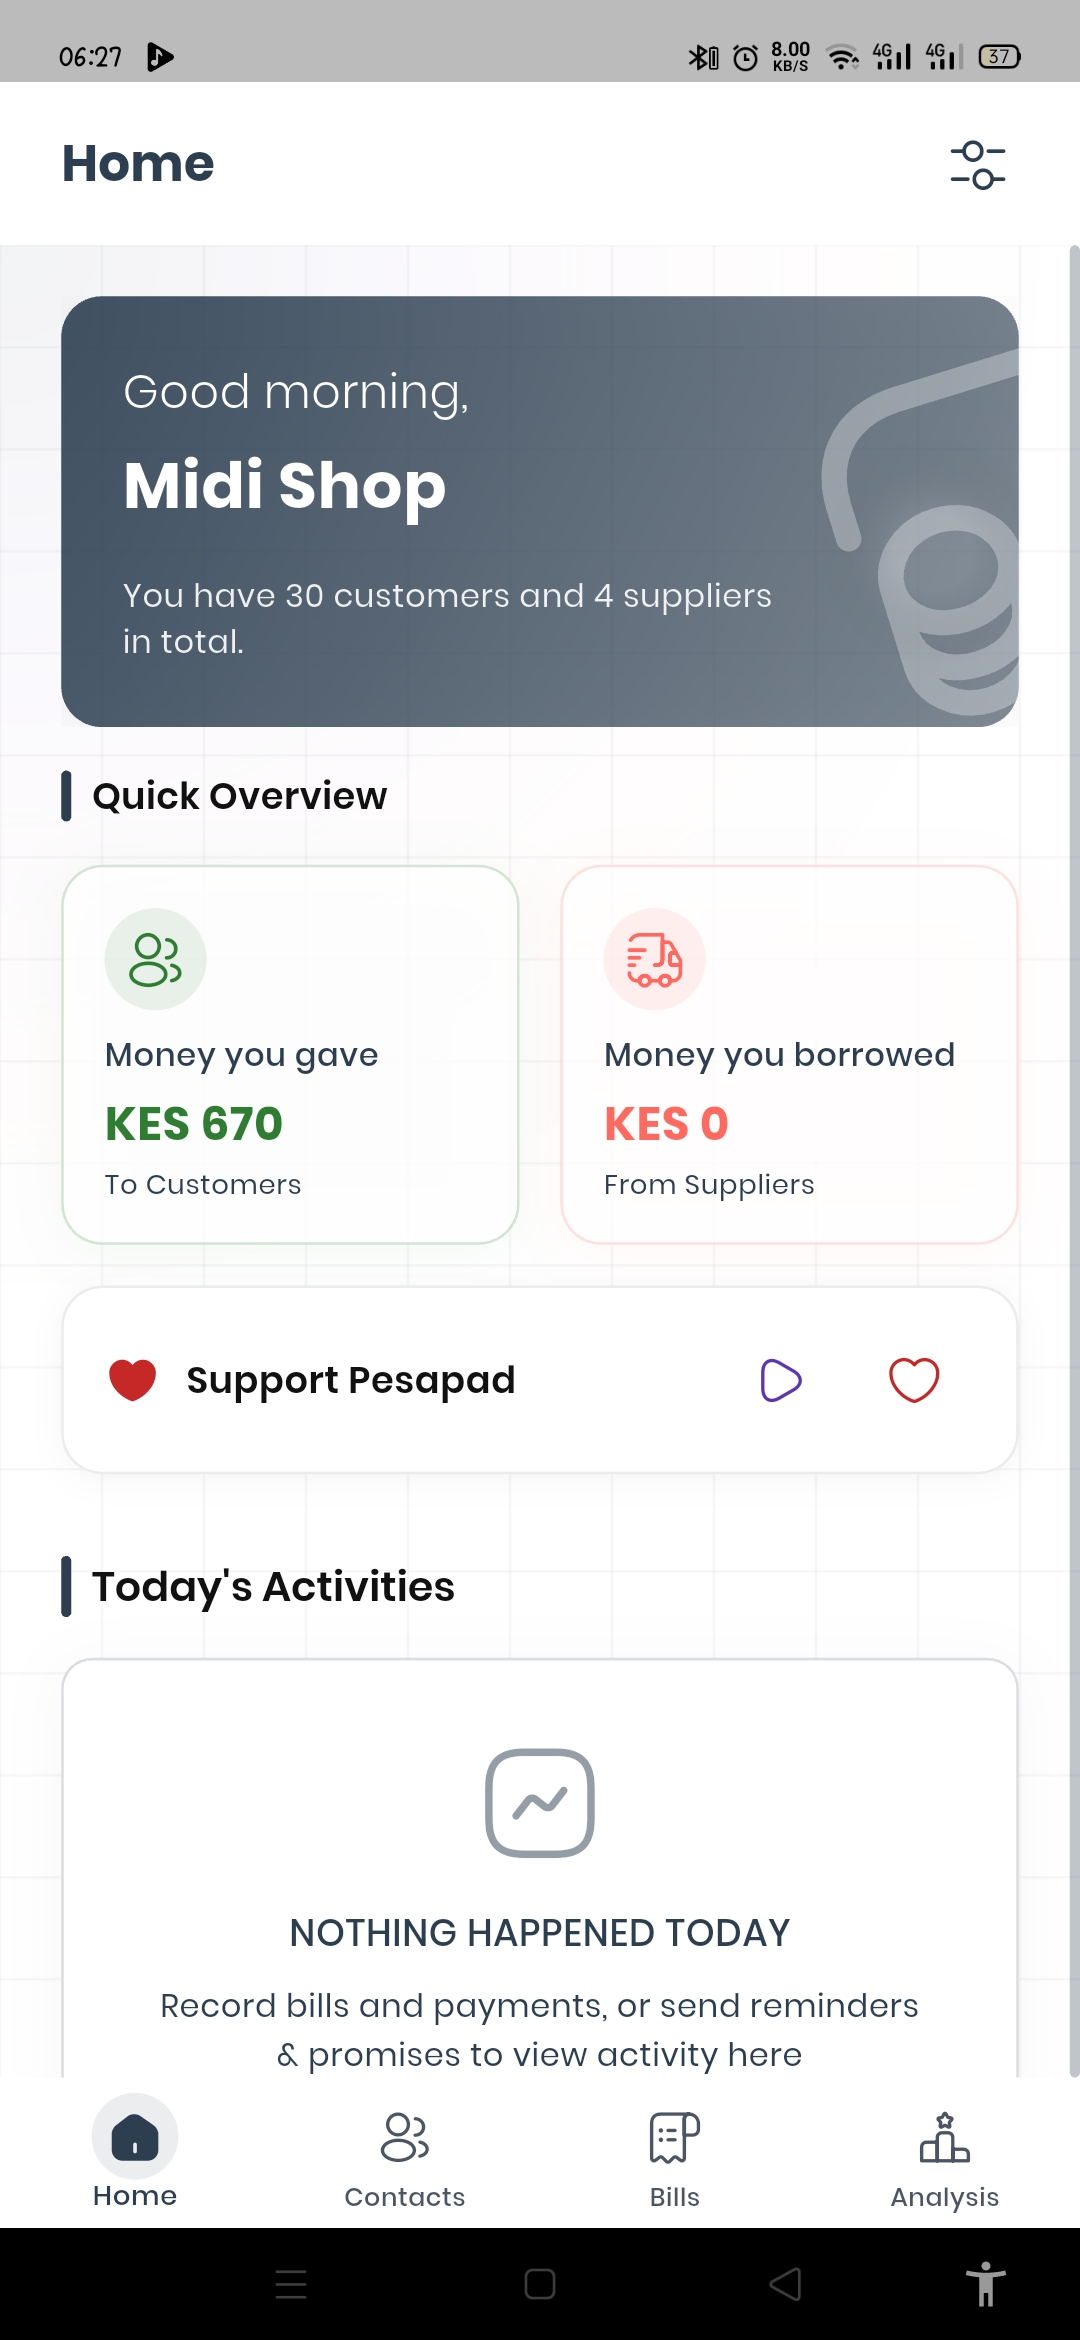
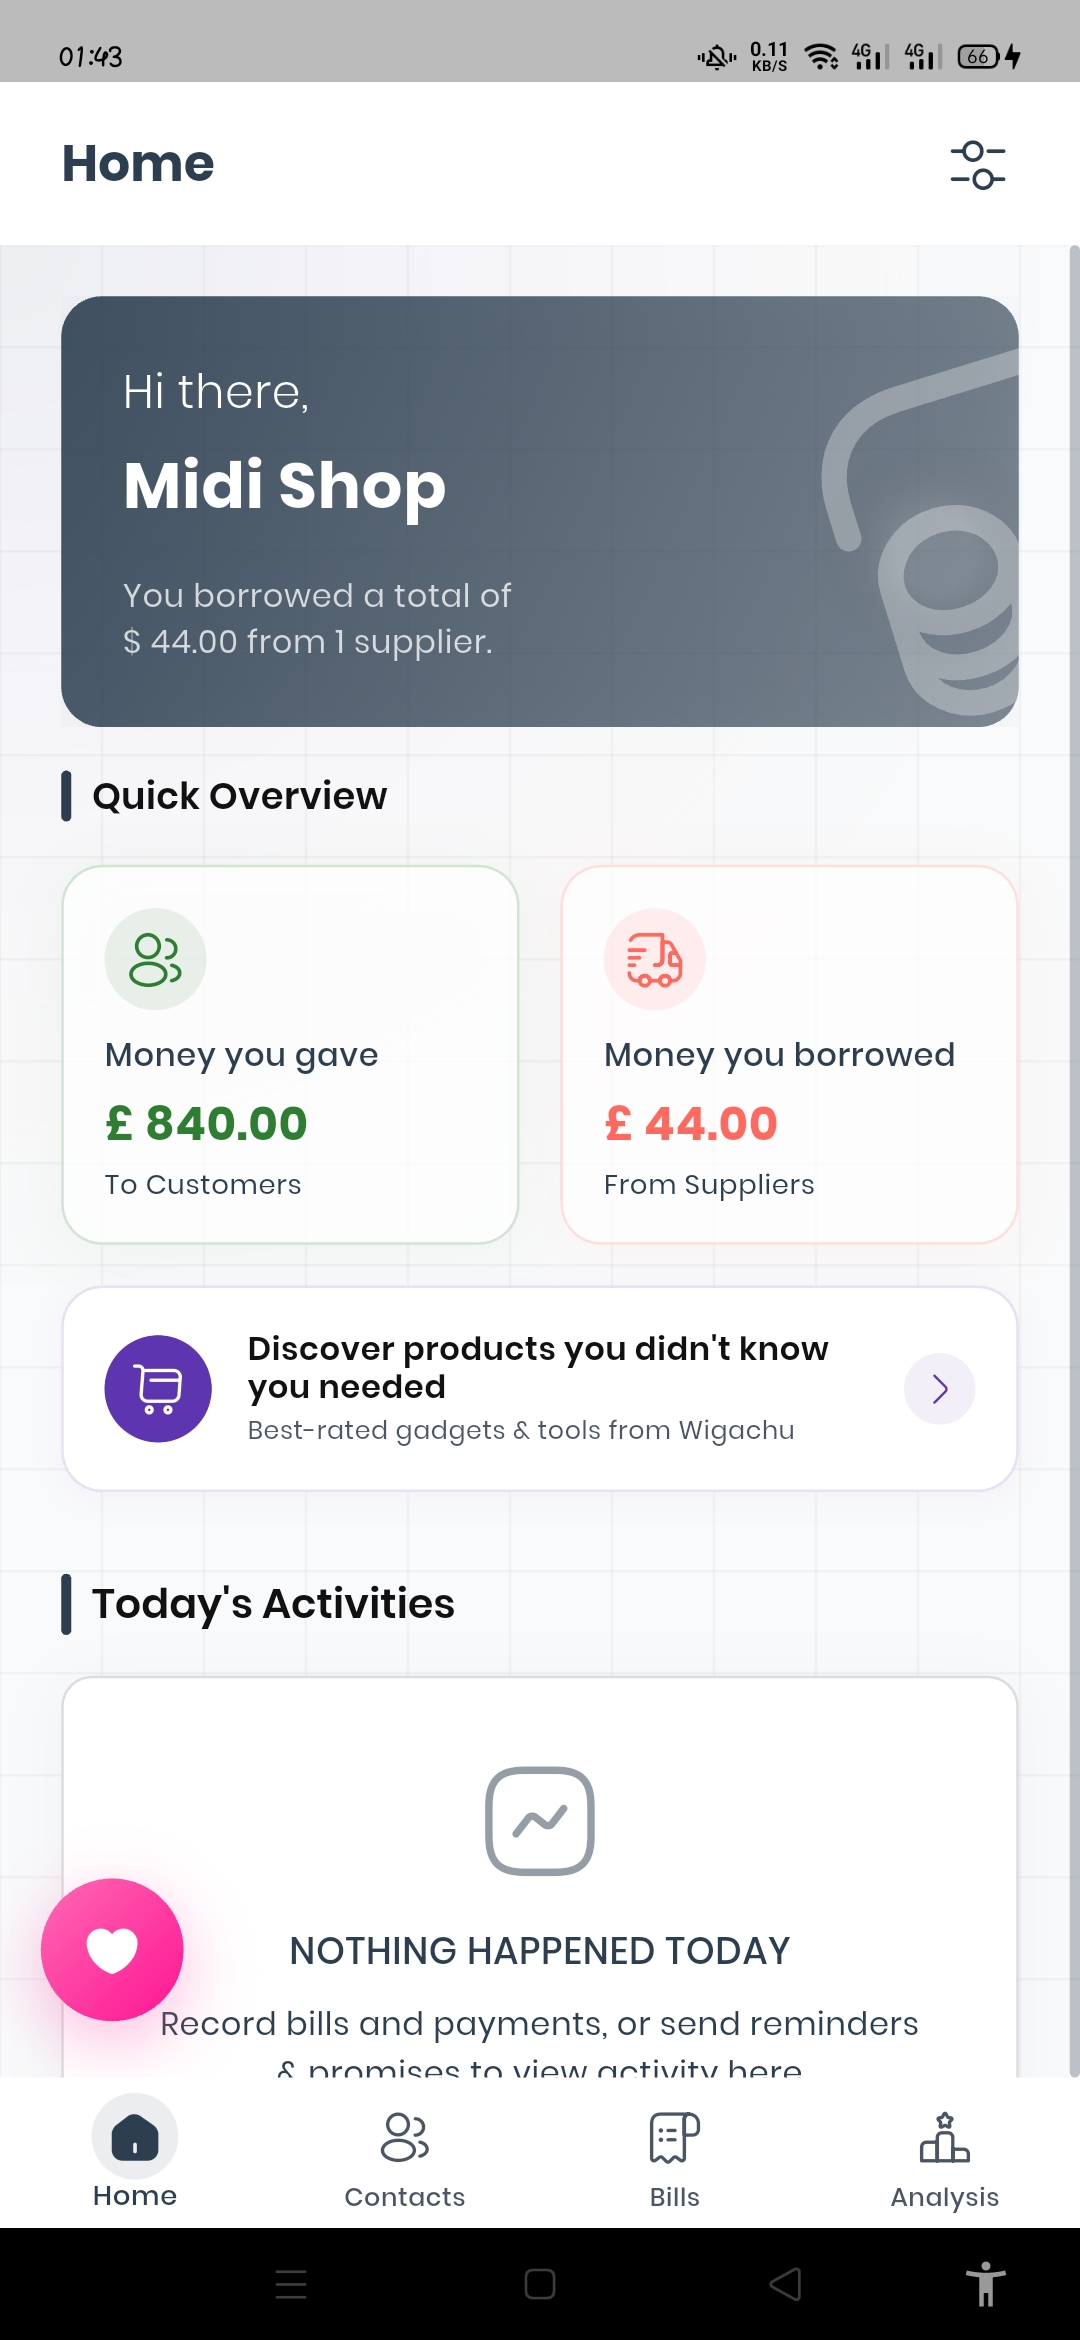
Updates

diff --git a/index.html b/index.html
@@ -7,7 +7,8 @@
       name="description"
       content="Wigachu – Handpicked so you don’t have to scroll. Just the stuff that makes life easier."
     />
-    <title>Wigachu – Handpicked so you don’t have to scroll</title>
+    <meta name="awin-verification" content="Awin" />
+    <title>Wigachu – Handpicked so you don’t have to scroll too much</title>
 
     <script src="https://cdn.tailwindcss.com"></script>
     <!-- Supabase JS client -->
@@ -538,7 +539,7 @@
           <a href="#" class="underline hover:text-brand-600">Contact</a>
         </p>
         <p class="italic text-xs">
-          As an Amazon Associate we earn from qualifying purchases.
+          As an Amazon Associate and Awin partner we earn from qualifying purchases.
         </p>
       </div>
     </footer>